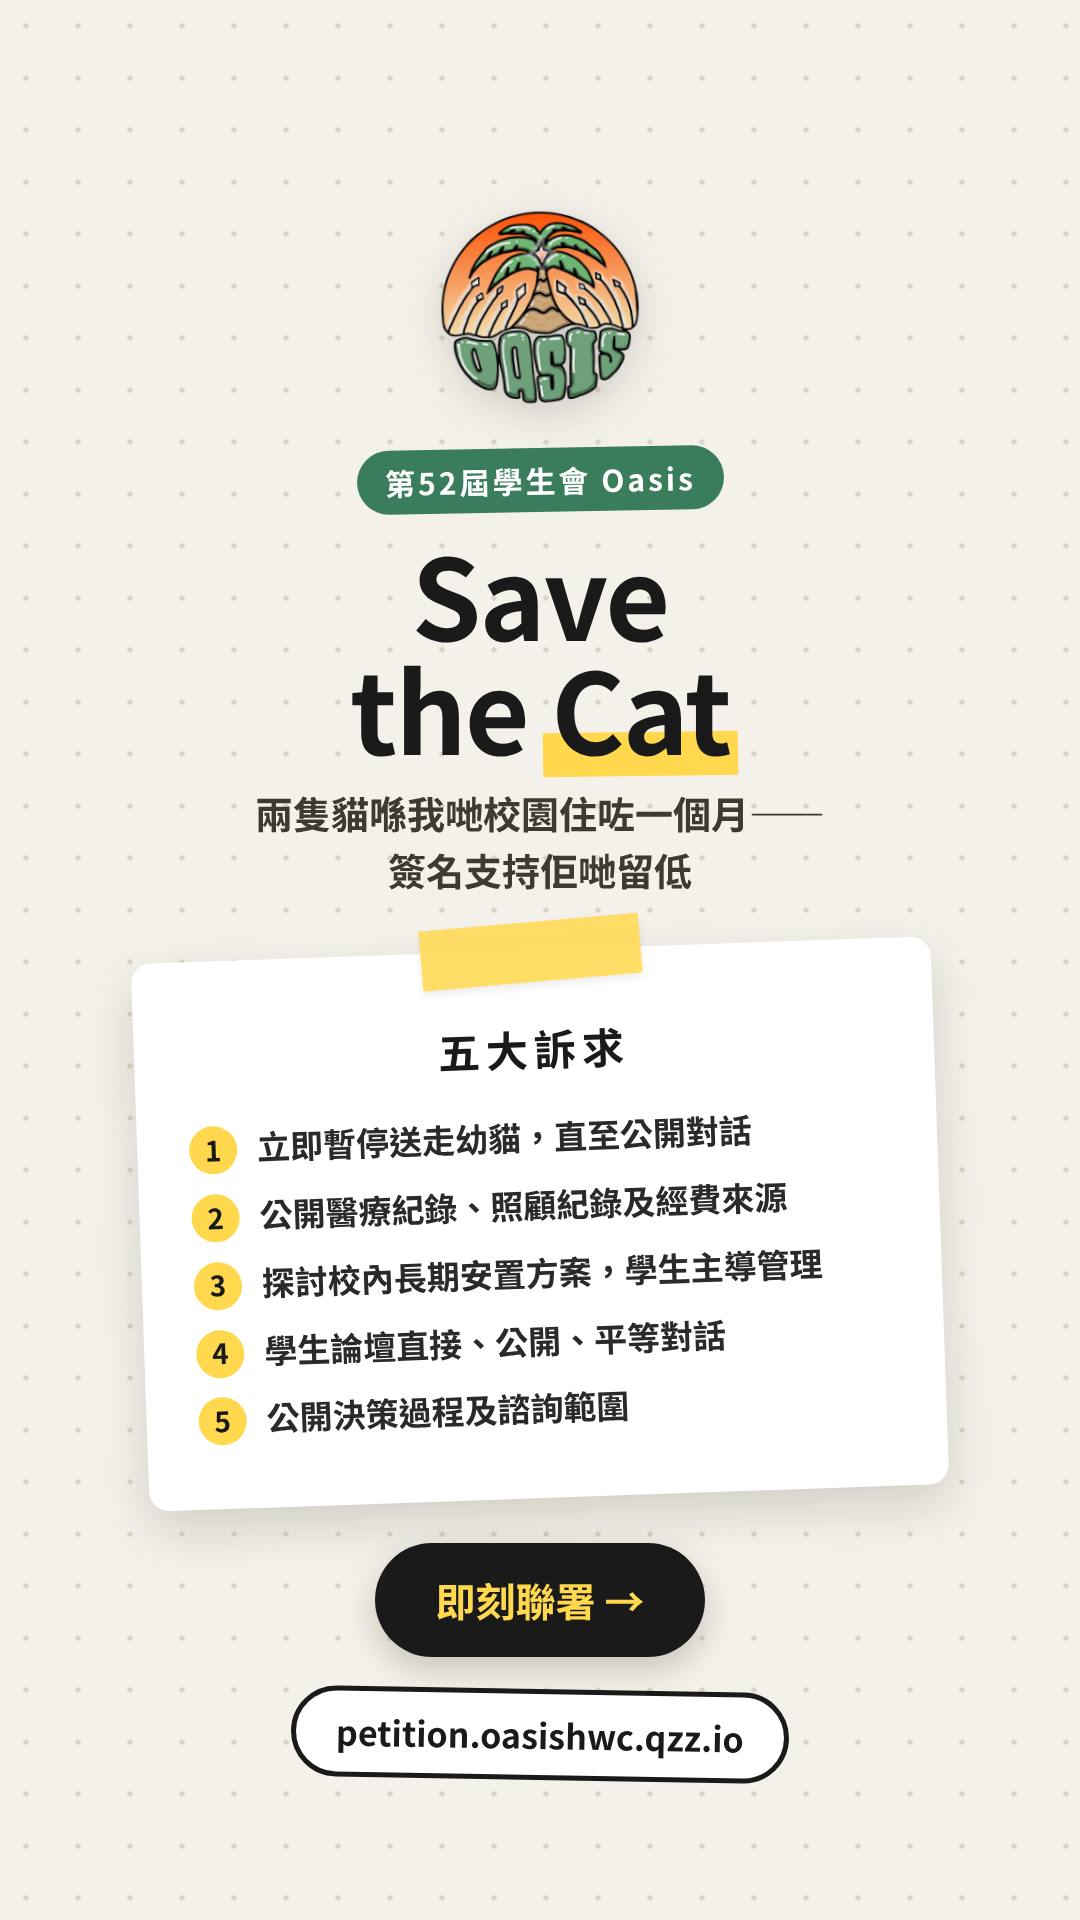
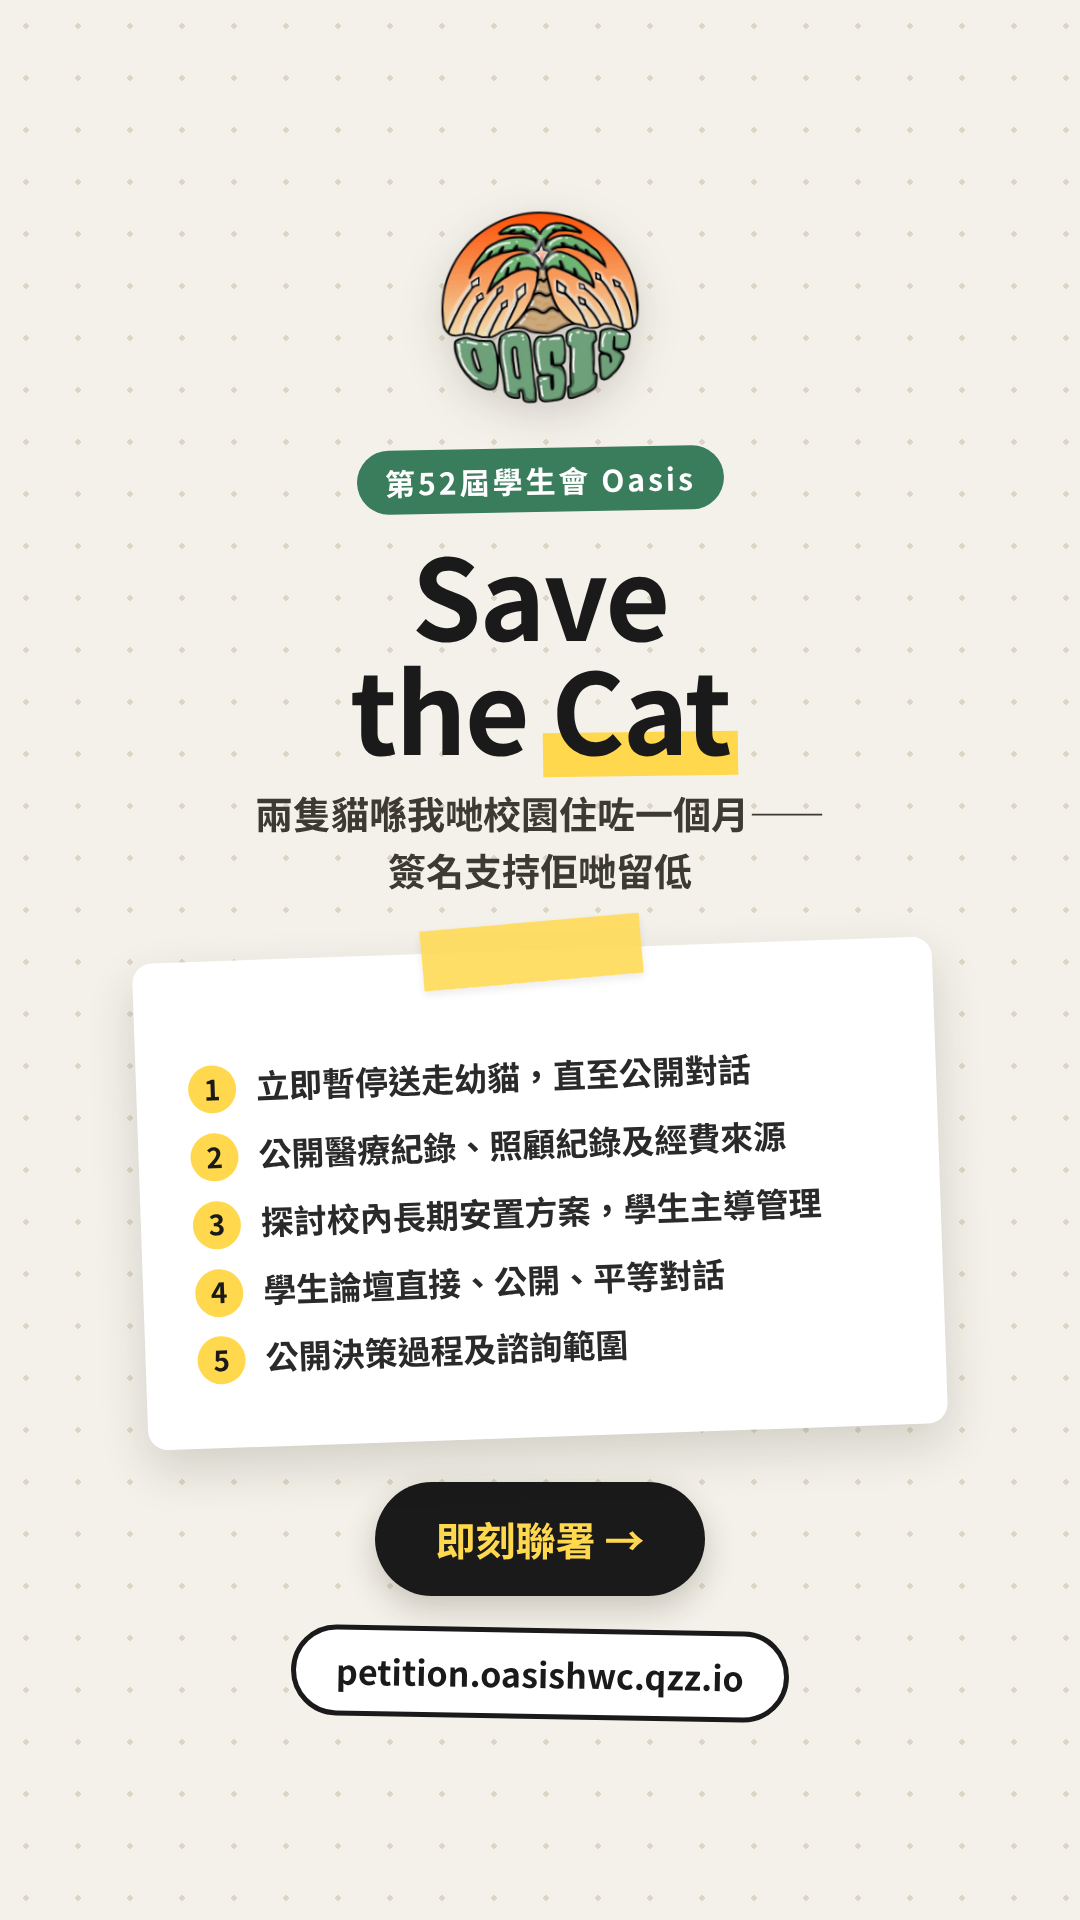
Retitle the Oasis petition to the statement title and simplify the story card (Oasis 聯署改用聲明標題兼精簡 story 卡)
The Oasis site's heading was 'Save the Cat', which does not say what the
petition is; the statement's own title line also sat duplicated as the
first body paragraph. The story card's '五大訴求' heading was redundant
above an obviously numbered list.

Oasis 站標題原本係 'Save the Cat'，講唔出聯署內容；聲明標題又喺內文第
一段重複出現。story 卡「五大訴求」標題都係多餘。

- lib/petition.ts: oasis title is now 'Statement: Campus Cat Welfare and
  Demand for Public Accountability'
- lib/oasis-statement.ts: dropped the duplicated title line from the body
- app/layout.tsx: document metadata title follows the brand
- story-card-oasis: removed the 五大訴求 heading, re-rendered 1080x1920
- 標題改用聲明原題、內文刪重複行、story 卡抽走五大訴求字樣並重新出圖

Changed region(s): [[0.1222, 0.5312, 0.8861, 0.9375]]

diff --git a/lib/oasis-statement.ts b/lib/oasis-statement.ts
@@ -5,4 +5,4 @@ import "server-only";
  * as the petition body on the Oasis-branded deployment. Kept in the bundle
  * because Workers vars cap at 5 KiB.
  */
-export const OASIS_STATEMENT_BODY = "Statement: Campus Cat Welfare and Demand for Public Accountability\n\nThe administration has announced its intent to remove two kittens from our campus under the guise of finding adopters. To this day, management has failed to provide a single transparent explanation regarding their care, vetting criteria, adopter background, or concrete timeline.\n\nWe have reason to question the administration's moral authority on this matter. It is widely understood within our school community that these kittens have been sustained, sheltered, and medically cared for through the personal dedication and financial contributions of students and frontline teachers, not executive management. We challenge the principal to disclose publicly what institutional resources, medical funding, or welfare support his office has ever provided for these animals.\n\nFurthermore, we categorically reject the claim that speaking behind closed doors with a select few teachers constitutes a “consultation”. Hand-picking a handful of staff members while systematically excluding the frontline caregivers, the student body, and elected student representatives is not dialogue. It is an administrative dictate dressed up as consensus.\n\nLet us be unequivocally clear: our clear priority is to explore every viable way to keep the kittens on campus, where students and teachers have already proven their commitment to caring for them. While we recognize that the animals' long-term wellbeing comes first, what we strongly oppose is treating immediate removal as the only option through an opaque, unilateral maneuver. Students are primary stakeholders in this community, not passive subjects to be silenced by top-down decrees.\n\nThe 52nd Students' Association Oasis hereby issues the following demands to school management:\n\n● Immediate suspension of any plan to remove the kittens until a fully public, representative dialogue takes place.\n\n● Full disclosure of the kittens' medical records, living conditions, daily care log, and financial sources to date.\n\n● A comprehensive, open exploration of feasible solutions to permanently house and care for the kittens on campus, establishing a clear student-led management framework rather than treating removal as the only option.\n\n● A direct, open, and equal dialogue between the principal, relevant frontline teachers, and the entire student body through the upcoming Students’ Forum.\n\n● A public accounting of the decision-making process, including who authorized this removal and the exact scope of consultation conducted.\n\nIf the administration persists in railroading this decision through administrative force while ignoring student voices, it will bear full responsibility for the irreversible breakdown of institutional trust, the complete failure of life education, and further public escalation.\n\nWe will not stand by while arbitrary authority overrides student consensus and animal welfare. The administration must face the student body directly.\n\n52nd Students’ Association Oasis\n\n——————————\n\n關於校園小貓去留及要求校方公開交代之聲明\n\n校方日前宣布，將為校園兩隻幼貓尋找領養者並送離學校。然而至今，校方未曾就現時照顧安排、審核準則或具體時間表，向全校師生作出任何公開透明的交代。\n\n我們有理由質疑校方在此事上的道德權威。眾所周知，兩隻幼貓一直只有前線老師親力親為照顧、收容及支付醫療費用，而非由管理層承擔。我們要求校長公開交代，校方曾為這兩隻幼貓提供過哪些制度性資源、醫療資助或福利支援。\n\n校方從未公開詢問老師和學生的意見。所謂「諮詢」並非對話，而是以共識包裝的行政命令。\n\n我們的明確立場，是優先探討所有讓幼貓留在校園的可行方案。我們深知，動物的長遠福祉永遠置於首位；但我們反對的，是校方未經充分探討校內照顧的可能性，便以單方面、不透明的方式，將立即送走視為唯一選項。學生是這個社群的主要持份者，並非任由自上而下命令擺布的被動對象。\n\n第52屆學生會 Oasis 在此向校方管理層提出以下要求：\n\n一、立即暫停任何送走幼貓的計劃，直至舉行全面公開、具代表性的對話。\n\n二、全面公開幼貓至今的醫療紀錄、生活環境、日常照顧紀錄及經費來源。\n\n三、全面公開探討在校園內長期安置及照顧幼貓的可行方案，並建立清晰的學生主導管理框架，而非將送走視為唯一選項。\n\n四、透過即將舉行的學生論壇（Students' Forum），由校長、相關前線老師及全體學生進行直接、公開、平等的對話。\n\n五、公開是次決定的決策過程，包括由誰授權送走幼貓，以及諮詢的實際範圍。\n\n倘若校方繼續以行政手段強行推進決定、無視學生聲音，校方須為制度信任的不可逆轉破裂、生命教育的徹底失敗，以及事態進一步公開升級，承擔全部責任。\n\n我們不會袖手旁觀，任由專斷權力凌駕學生共識與動物福利。校方必須直接面對全體學生。\n\n第52屆學生會 Oasis";
+export const OASIS_STATEMENT_BODY = "The administration has announced its intent to remove two kittens from our campus under the guise of finding adopters. To this day, management has failed to provide a single transparent explanation regarding their care, vetting criteria, adopter background, or concrete timeline.\n\nWe have reason to question the administration's moral authority on this matter. It is widely understood within our school community that these kittens have been sustained, sheltered, and medically cared for through the personal dedication and financial contributions of students and frontline teachers, not executive management. We challenge the principal to disclose publicly what institutional resources, medical funding, or welfare support his office has ever provided for these animals.\n\nFurthermore, we categorically reject the claim that speaking behind closed doors with a select few teachers constitutes a “consultation”. Hand-picking a handful of staff members while systematically excluding the frontline caregivers, the student body, and elected student representatives is not dialogue. It is an administrative dictate dressed up as consensus.\n\nLet us be unequivocally clear: our clear priority is to explore every viable way to keep the kittens on campus, where students and teachers have already proven their commitment to caring for them. While we recognize that the animals' long-term wellbeing comes first, what we strongly oppose is treating immediate removal as the only option through an opaque, unilateral maneuver. Students are primary stakeholders in this community, not passive subjects to be silenced by top-down decrees.\n\nThe 52nd Students' Association Oasis hereby issues the following demands to school management:\n\n● Immediate suspension of any plan to remove the kittens until a fully public, representative dialogue takes place.\n\n● Full disclosure of the kittens' medical records, living conditions, daily care log, and financial sources to date.\n\n● A comprehensive, open exploration of feasible solutions to permanently house and care for the kittens on campus, establishing a clear student-led management framework rather than treating removal as the only option.\n\n● A direct, open, and equal dialogue between the principal, relevant frontline teachers, and the entire student body through the upcoming Students’ Forum.\n\n● A public accounting of the decision-making process, including who authorized this removal and the exact scope of consultation conducted.\n\nIf the administration persists in railroading this decision through administrative force while ignoring student voices, it will bear full responsibility for the irreversible breakdown of institutional trust, the complete failure of life education, and further public escalation.\n\nWe will not stand by while arbitrary authority overrides student consensus and animal welfare. The administration must face the student body directly.\n\n52nd Students’ Association Oasis\n\n——————————\n\n關於校園小貓去留及要求校方公開交代之聲明\n\n校方日前宣布，將為校園兩隻幼貓尋找領養者並送離學校。然而至今，校方未曾就現時照顧安排、審核準則或具體時間表，向全校師生作出任何公開透明的交代。\n\n我們有理由質疑校方在此事上的道德權威。眾所周知，兩隻幼貓一直只有前線老師親力親為照顧、收容及支付醫療費用，而非由管理層承擔。我們要求校長公開交代，校方曾為這兩隻幼貓提供過哪些制度性資源、醫療資助或福利支援。\n\n校方從未公開詢問老師和學生的意見。所謂「諮詢」並非對話，而是以共識包裝的行政命令。\n\n我們的明確立場，是優先探討所有讓幼貓留在校園的可行方案。我們深知，動物的長遠福祉永遠置於首位；但我們反對的，是校方未經充分探討校內照顧的可能性，便以單方面、不透明的方式，將立即送走視為唯一選項。學生是這個社群的主要持份者，並非任由自上而下命令擺布的被動對象。\n\n第52屆學生會 Oasis 在此向校方管理層提出以下要求：\n\n一、立即暫停任何送走幼貓的計劃，直至舉行全面公開、具代表性的對話。\n\n二、全面公開幼貓至今的醫療紀錄、生活環境、日常照顧紀錄及經費來源。\n\n三、全面公開探討在校園內長期安置及照顧幼貓的可行方案，並建立清晰的學生主導管理框架，而非將送走視為唯一選項。\n\n四、透過即將舉行的學生論壇（Students' Forum），由校長、相關前線老師及全體學生進行直接、公開、平等的對話。\n\n五、公開是次決定的決策過程，包括由誰授權送走幼貓，以及諮詢的實際範圍。\n\n倘若校方繼續以行政手段強行推進決定、無視學生聲音，校方須為制度信任的不可逆轉破裂、生命教育的徹底失敗，以及事態進一步公開升級，承擔全部責任。\n\n我們不會袖手旁觀，任由專斷權力凌駕學生共識與動物福利。校方必須直接面對全體學生。\n\n第52屆學生會 Oasis";

diff --git a/lib/petition.ts b/lib/petition.ts
@@ -58,7 +58,7 @@ export async function getPetitionContent(): Promise<PetitionContent> {
   // The Oasis-branded deployment carries the SA's official bilingual
   // statement from the bundle; the shared DB row is left untouched.
   if (brand() === "oasis") {
-    return { title: "Save the Cat", body: OASIS_STATEMENT_BODY, goalCount: 0 };
+    return { title: "Statement: Campus Cat Welfare and Demand for Public Accountability", body: OASIS_STATEMENT_BODY, goalCount: 0 };
   }
   // Per-worker content override wins over the shared DB row. Both halves
   // must be set — a lone title would otherwise erase the body entirely.

diff --git a/app/layout.tsx b/app/layout.tsx
@@ -15,7 +15,7 @@ import "./globals.css";
 export async function generateMetadata(): Promise<Metadata> {
   const oasis = brand() === "oasis";
   return {
-    title: "Save the Cat 聯署",
+    title: oasis ? "Statement: Campus Cat Welfare and Demand for Public Accountability — 聯署" : "Save the Cat 聯署",
     description: "聯署平台 — 簽名支持校貓留低",
     icons: [{ url: oasis ? "/oasis-logo.png" : "/favicon.png" }],
     openGraph: {

diff --git a/public/story-card-oasis-src.html b/public/story-card-oasis-src.html
@@ -121,7 +121,6 @@
     <div class="sub">兩隻貓喺我哋校園住咗一個月——<br>簽名支持佢哋留低</div>
     <div class="tape-block">
       <div class="tape"></div>
-      <div class="demands-title">五大訴求</div>
       <ol class="demands">
         <li>立即暫停送走幼貓，直至公開對話</li>
         <li>公開醫療紀錄、照顧紀錄及經費來源</li>
